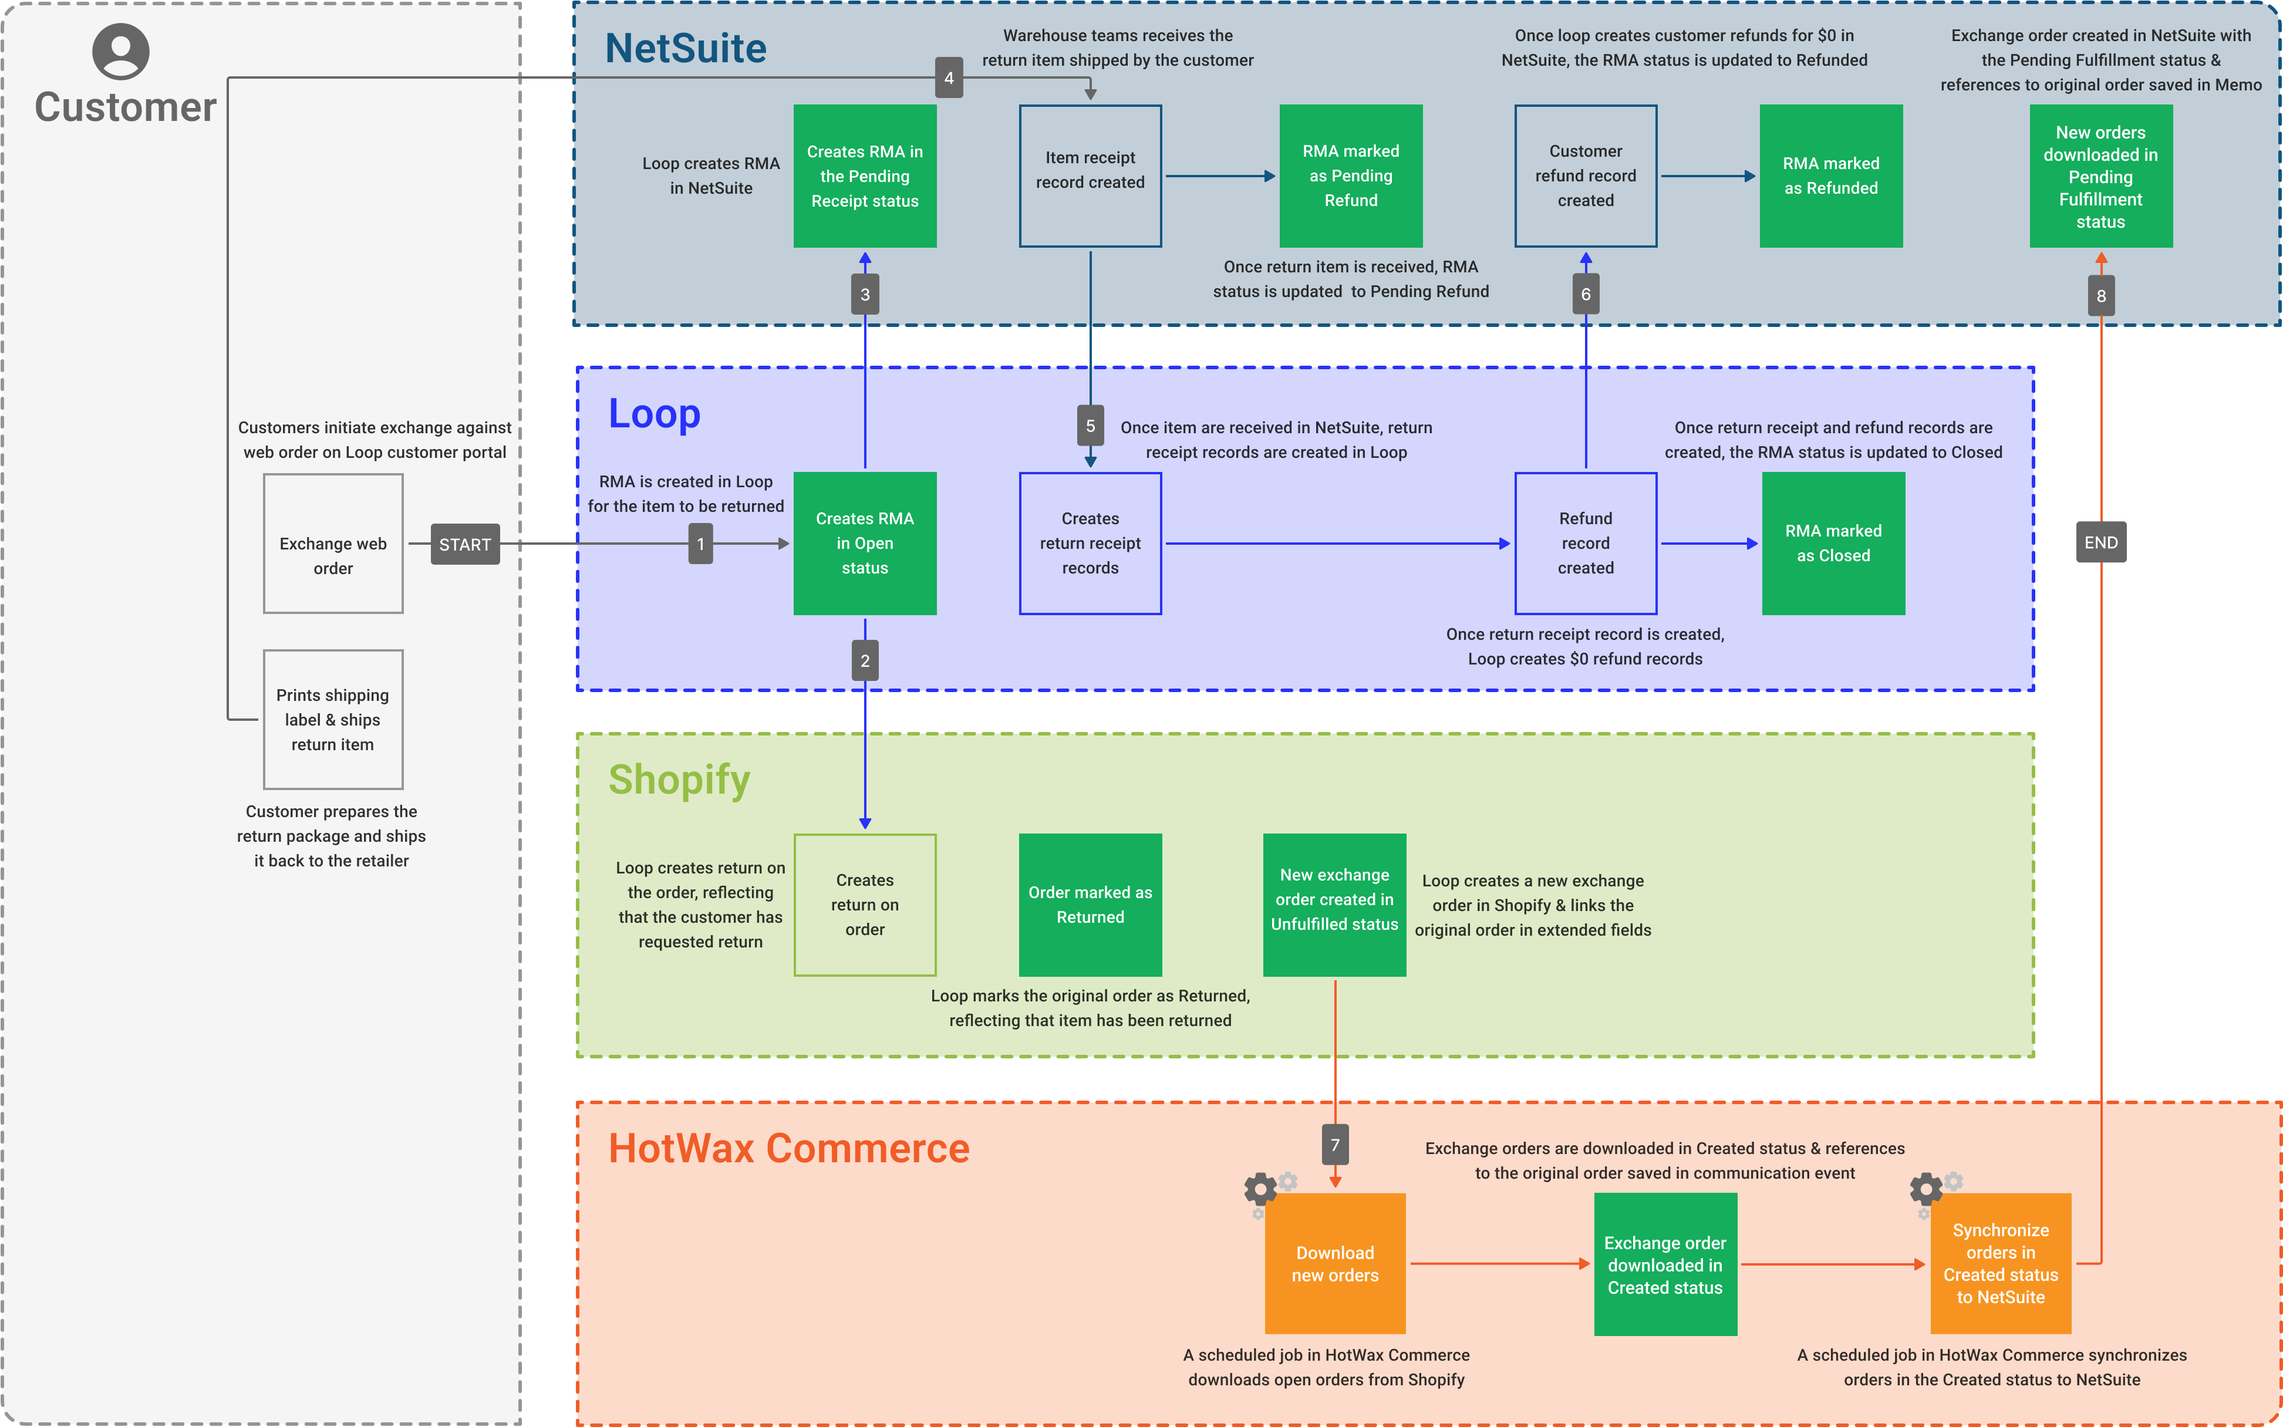
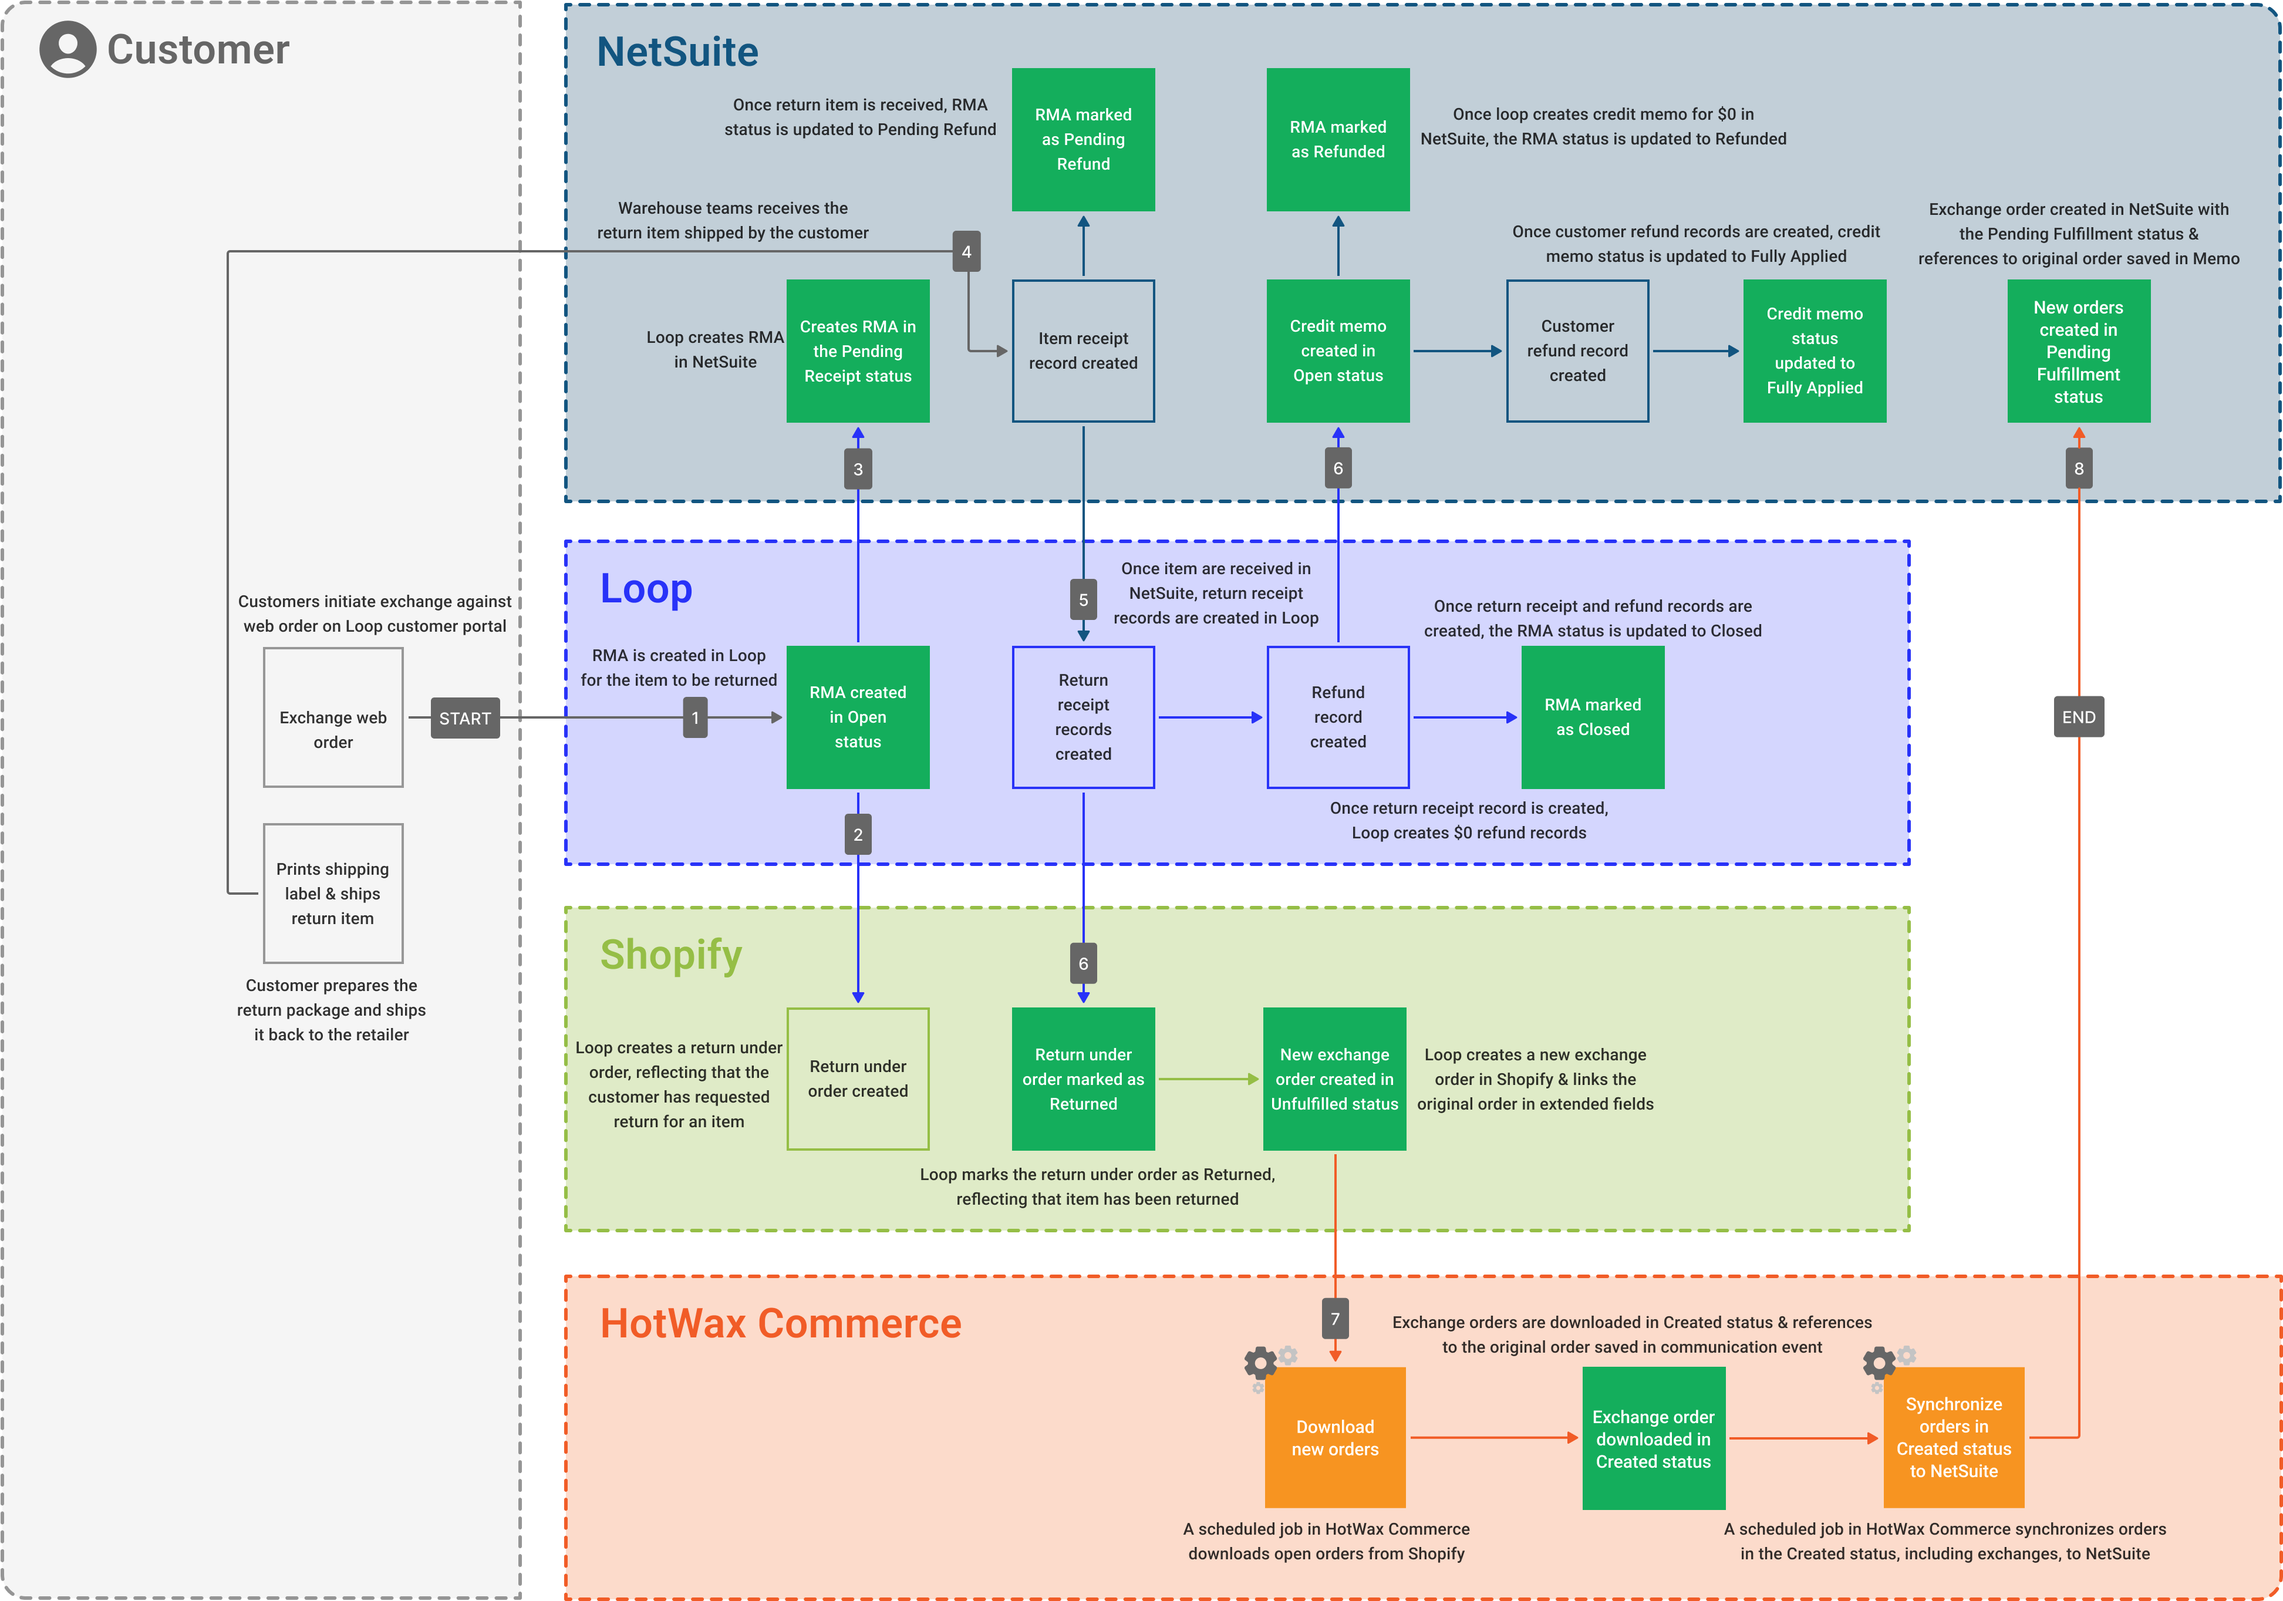
GITBOOK-175: added image for exchanges

diff --git a/user-manuals/business-process-models/exchangeslifecycle.md b/user-manuals/business-process-models/exchangeslifecycle.md
@@ -18,11 +18,11 @@ As discussed in [Returns Lifecycle](https://docs.hotwax.co/user-guides/business-
 
 When customers complete their exchange process, a Return Merchandise Authorization (RMA) is created in Loop in the <mark style="color:orange;">**“Open”**</mark> status against the return item.
 
-## 2. Creates Return Under Order in Shopify
+## 2. Return Under Order Created in Shopify
 
 Loop updates the order details in Shopify by creating a return under order, reflecting that a return has been requested by the customer.
 
-## 3. Creates RMA in NetSuite
+## 3. RMA Created in NetSuite
 
 Loop also generates an RMA in the <mark style="color:orange;">**“Pending Receipt”**</mark> status in NetSuite using a third-party integration app like Novamodule. This gives the warehouse teams a heads-up that an order item will be coming back.
 
@@ -37,11 +37,11 @@ When the return package reaches the warehouse, the warehouse teams initiate rece
 * Item receipt records are created in NetSuite against the RMA, and the returned inventory is restocked.
 * The status of RMA is updated from <mark style="color:orange;">**“Pending Receipt”**</mark> to <mark style="color:orange;">**“Pending Refund”**</mark>.
 
-## 5. Creates Return Receipt Records in Loop
+## 5. Return Receipt Records Created in Loop
 
 Item receipt records created in NetSuite are synchronized to Loop using a third-party integration app. Consequently, return receipt records are generated in Loop.
 
-## 6. Create Refund Records
+## 6. Refund Records Created
 
 When item receipt records are generated in Loop, multiple actions take place in NetSuite and Shopify, let’s understand them in detail:
 
@@ -51,10 +51,8 @@ Creating refund records is essential to mark the completion of the return proces
 
     Customers receive their refund amount when they return an item. In the event where they are returning an item in exchange for another, refunds will not be issued to them because that amount is used as payment for the exchanged product.
 
-    Once refund records are created, Loop creates a credit memo in Open status of $0 in NetSuite using a third party integration app. This marks the completion of RMA in NetSuite, with its status updating from <mark style="color:orange;">**“Pending Refund”**</mark> to <mark style="color:orange;">**“Refunded”**</mark>.. Loop also creates a customer refund record against the credit memo and then the status of the credit memo is updated from “Open” to “Fully Applied”.
-
+    Once refund records are created, Loop creates a credit memo in <mark style="color:orange;">**"Open"**</mark> status of $0 in NetSuite using a third party integration app. This marks the completion of RMA in NetSuite, with its status updating from <mark style="color:orange;">**“Pending Refund”**</mark> to <mark style="color:orange;">**“Refunded”**</mark>. Loop also creates a customer refund record against the credit memo and then the status of the credit memo is updated from <mark style="color:orange;">**“Open”**</mark> to <mark style="color:orange;">**“Fully Applied”**</mark>.
 * The creation of refund records in Loop also marks the completion of RMA in Loop, with its status updating from <mark style="color:orange;">**“Open”**</mark> to <mark style="color:orange;">**“Closed”**</mark>.
-  
 * Return receipt records in Loop trigger marking the original order as <mark style="color:orange;">**“Returned”**</mark> in Shopify and creating a new order in the <mark style="color:orange;">**“Unfulfilled”**</mark> status. Loop also applies a 100% Loop discount on the new order and links the original order in the extended fields.
 
 ## 7. Exchange Orders Downloaded in HotWax Commerce

diff --git a/user-manuals/inventory/inventory-management/inventory-configurations.md b/user-manuals/inventory/inventory-management/inventory-configurations.md
@@ -1,0 +1,2 @@
+# Inventory Configurations
+
